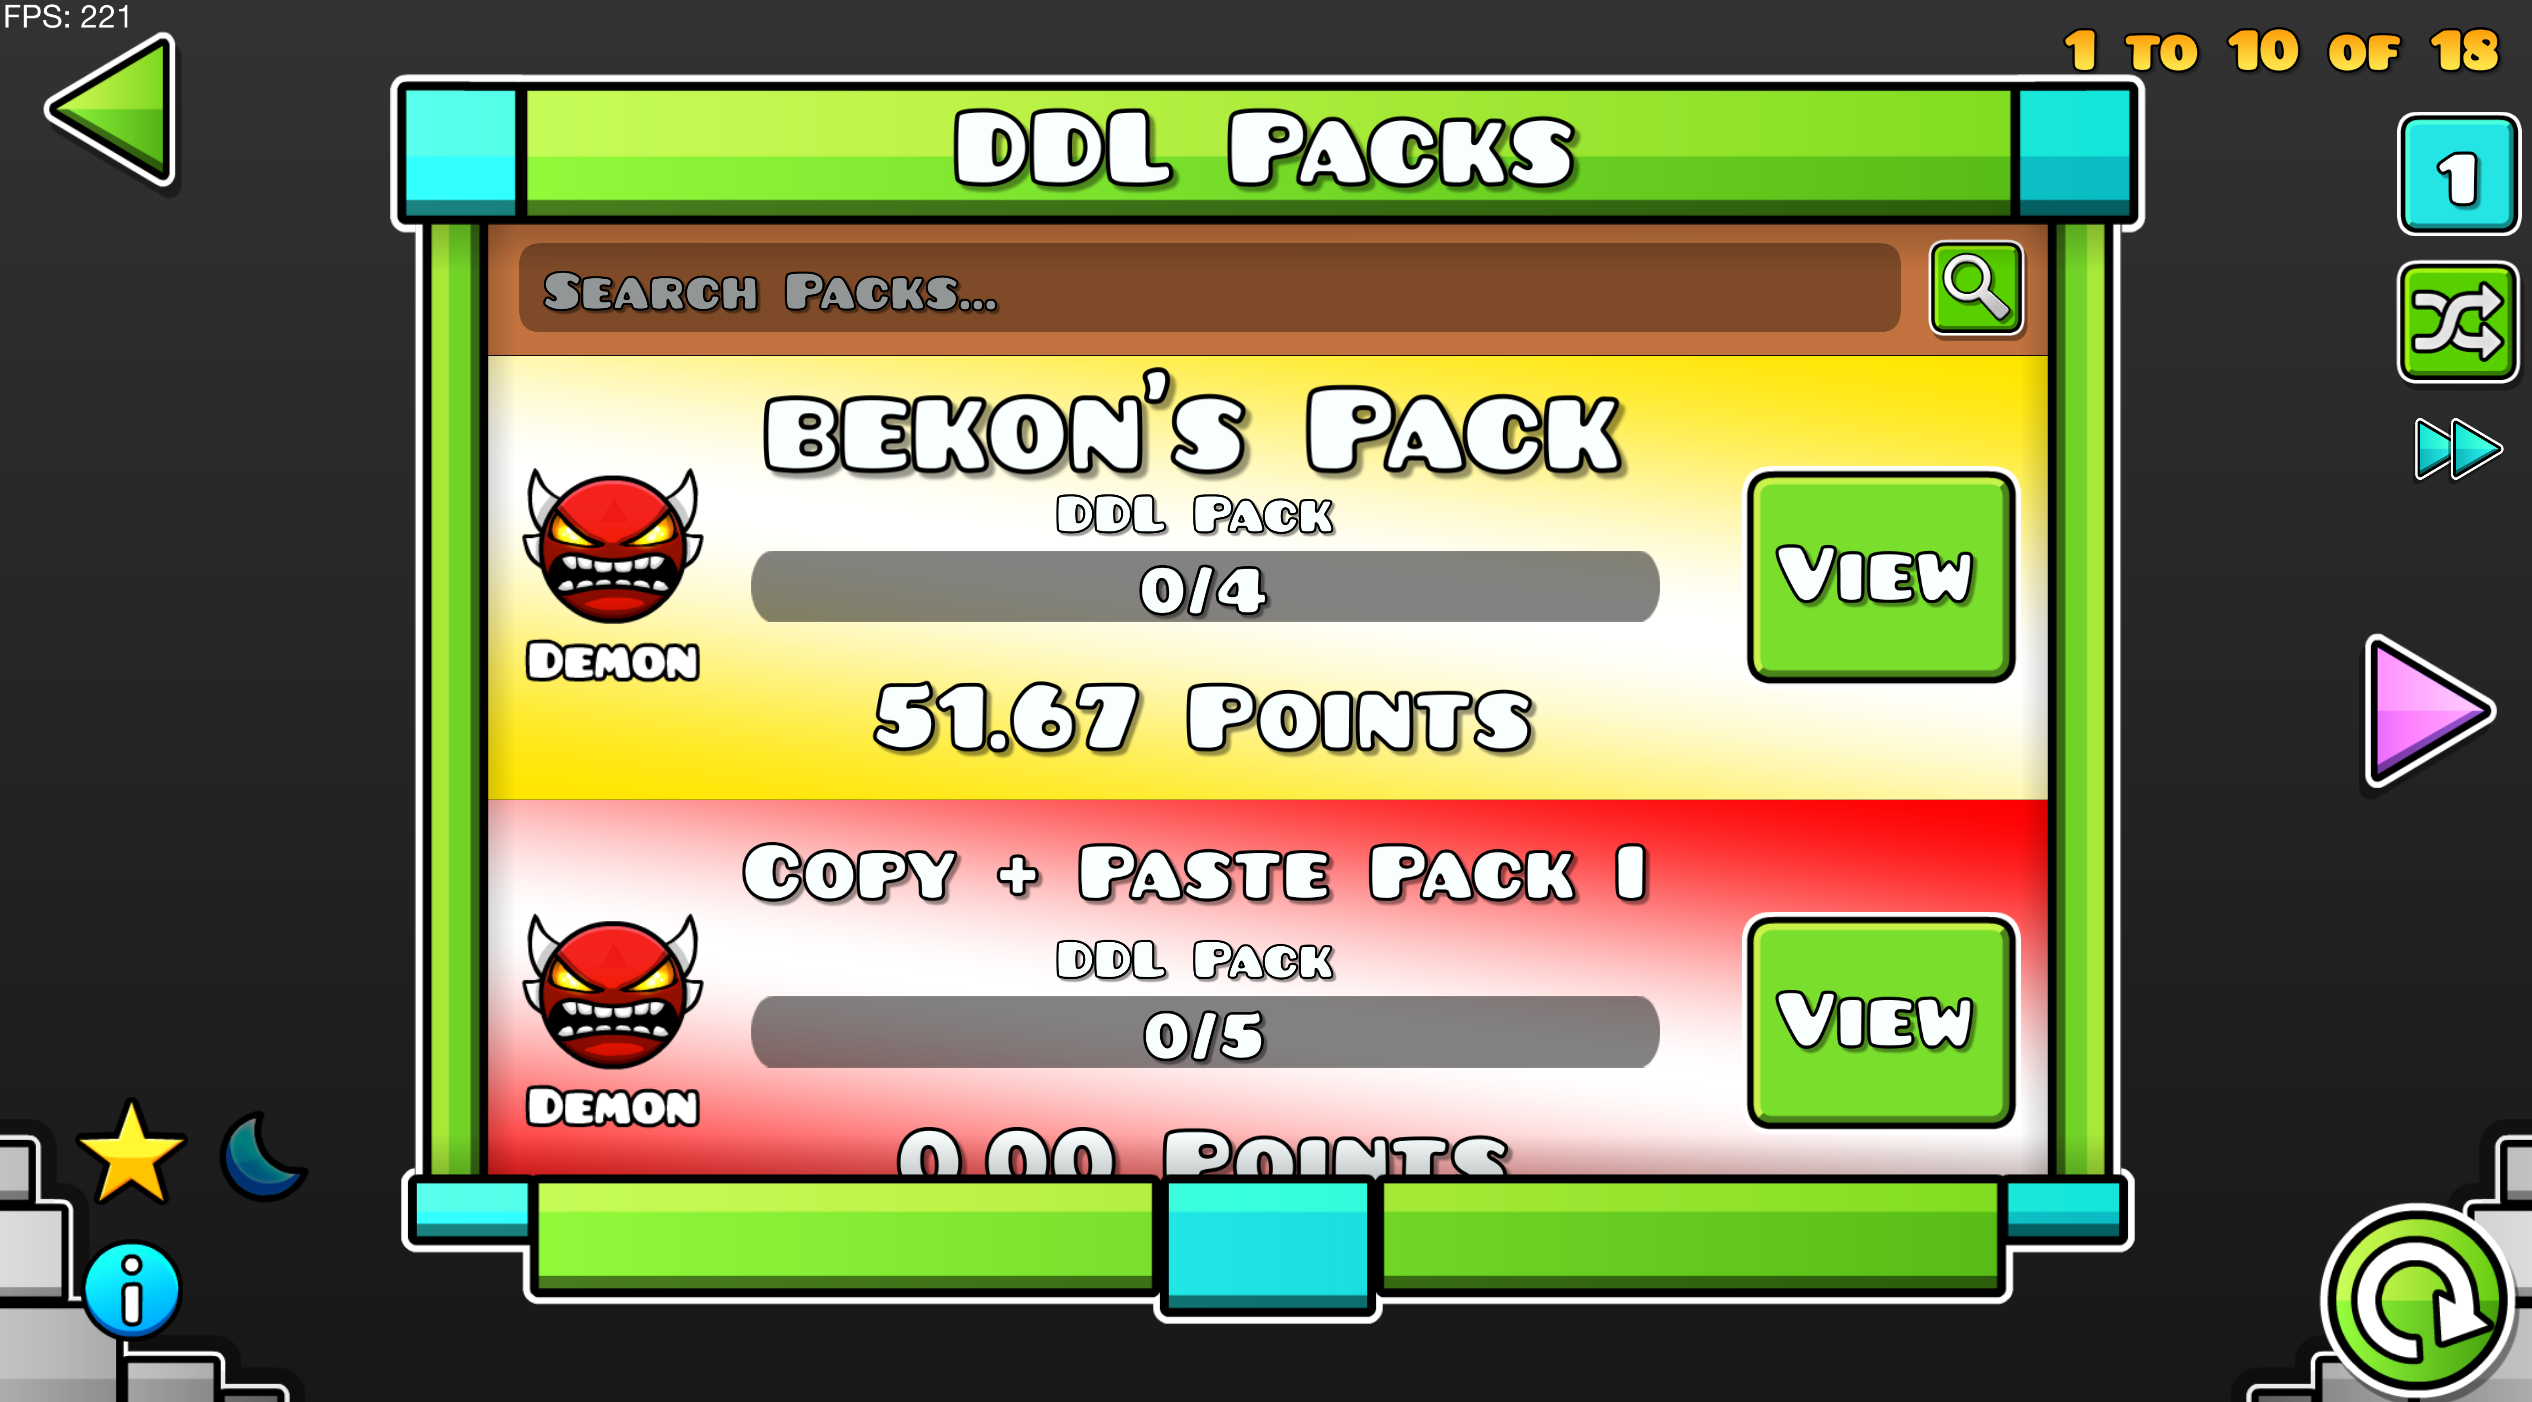
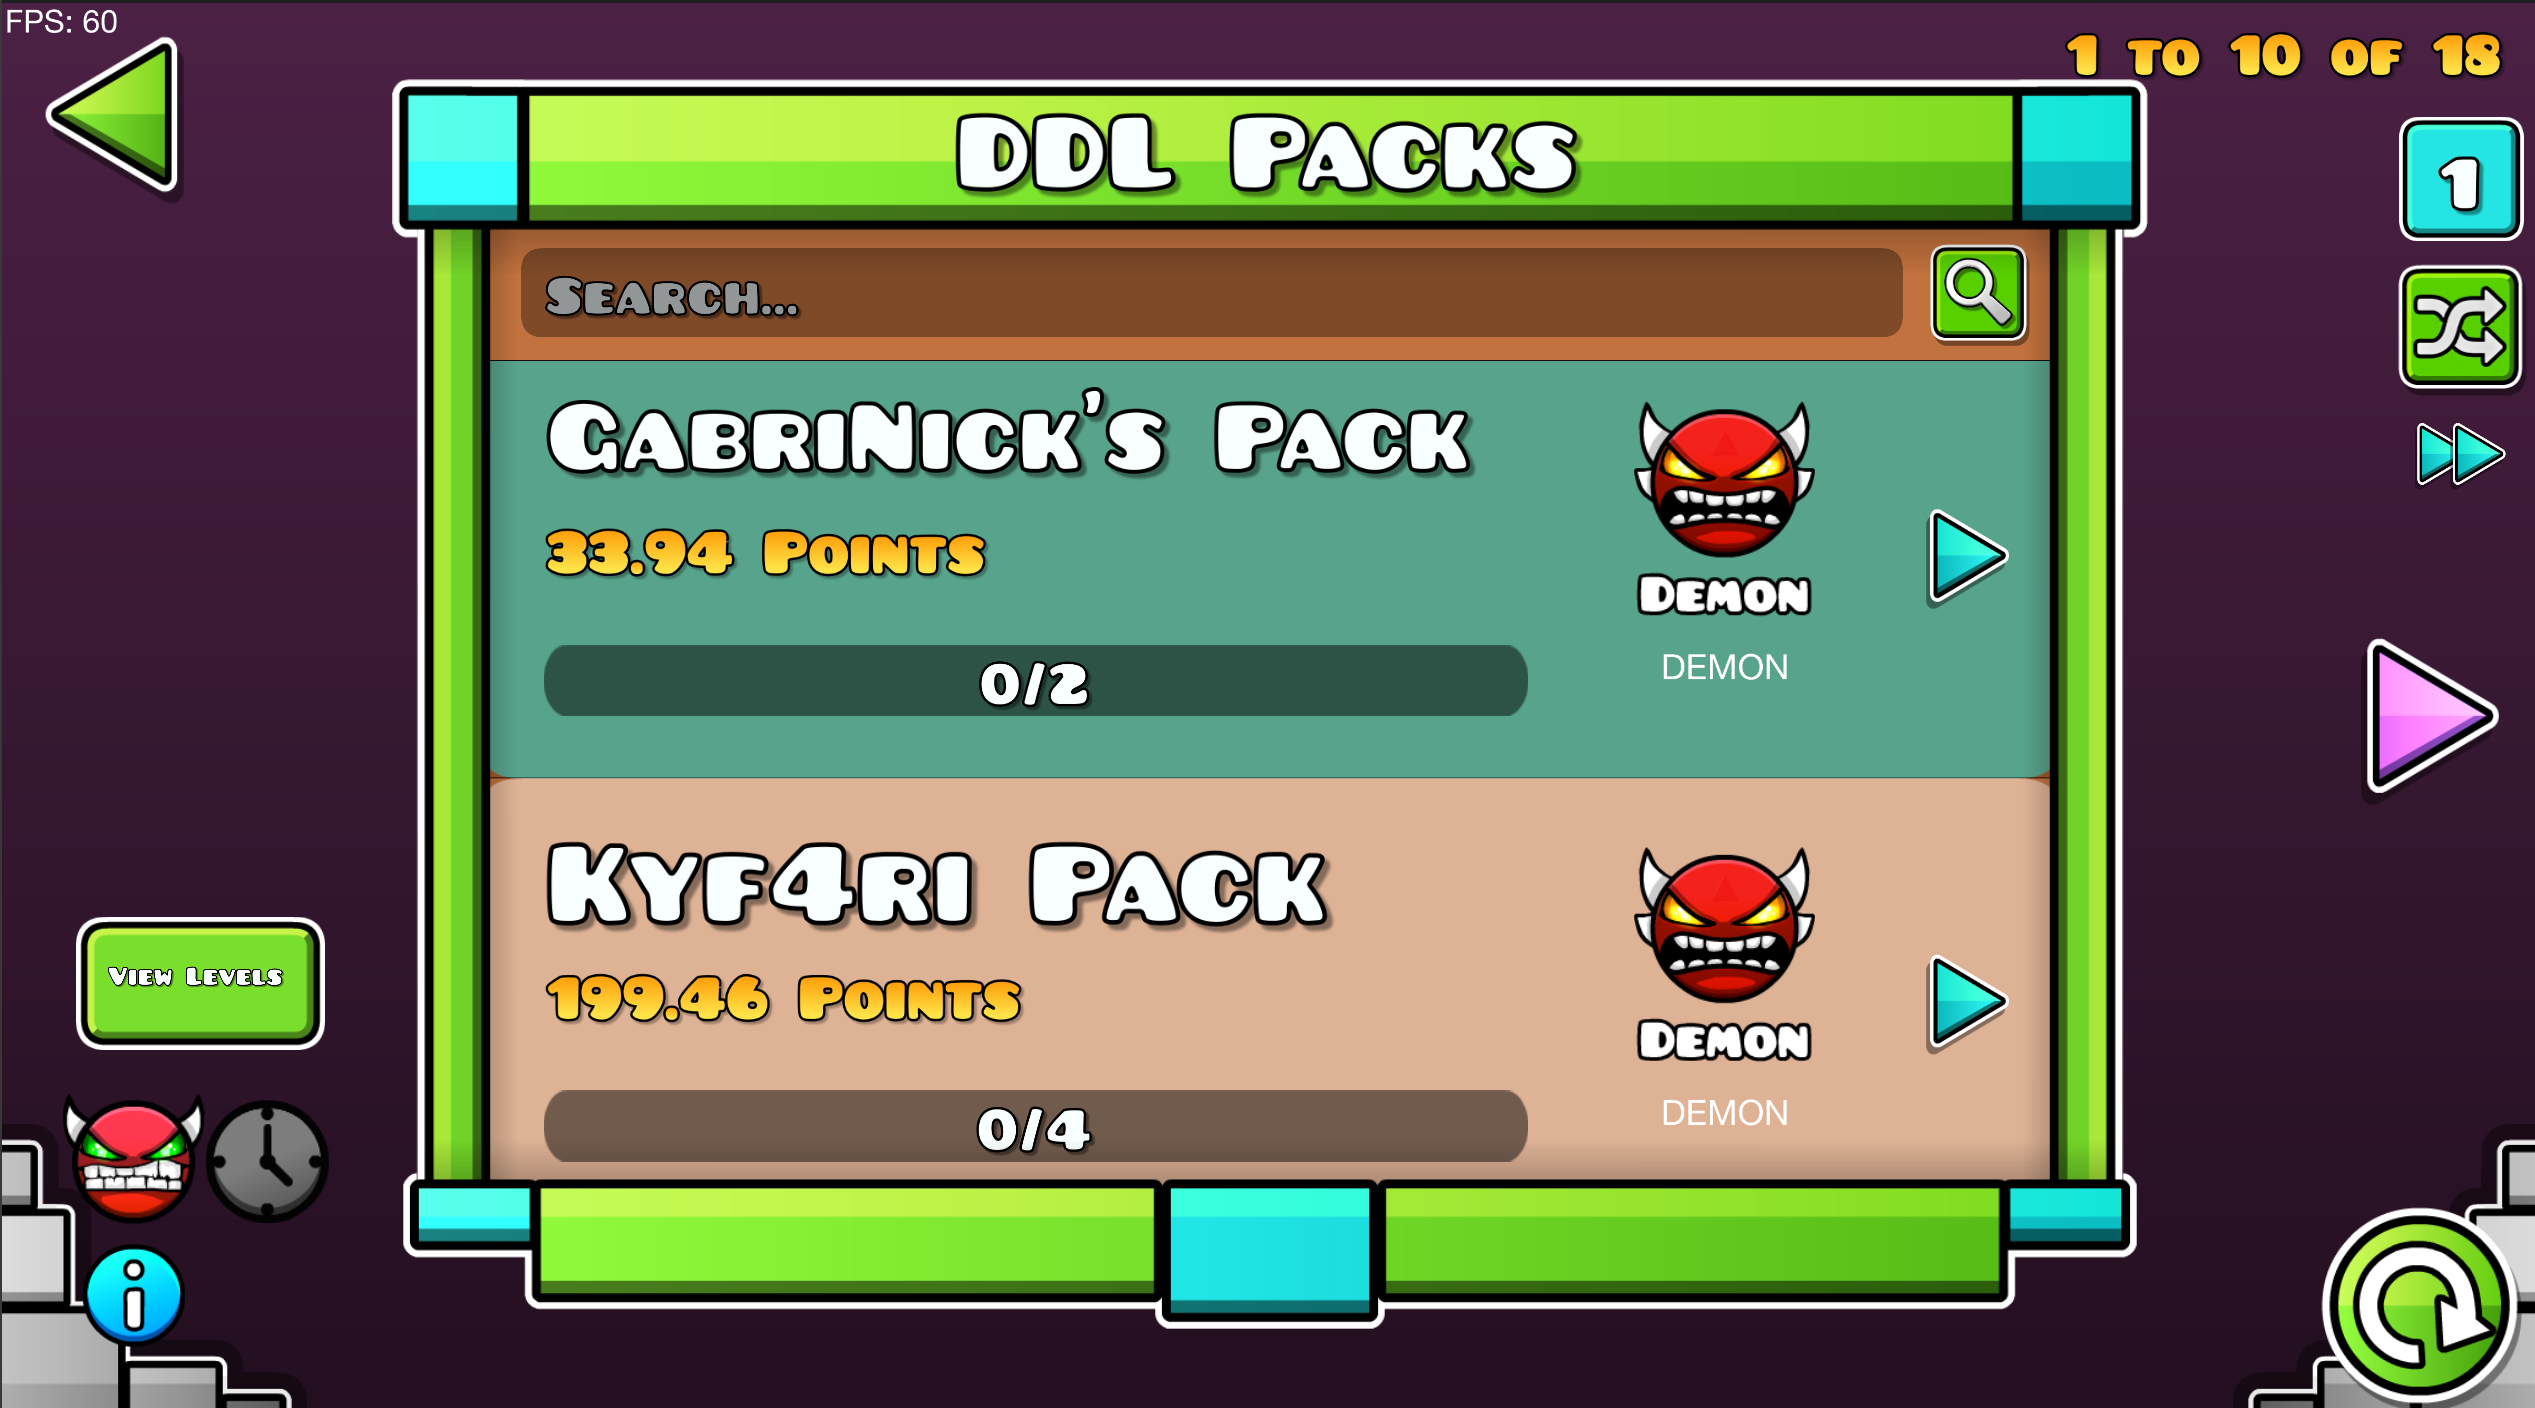
changes before build

diff --git a/changelog.md b/changelog.md
@@ -1,5 +1,9 @@
 # Integrated DDL
 ## v1.0.0
-First release with all core features working
+First release with all core features 
+
 ## v1.0.1
 Made some things more distant from the original theming and color scheme that was in the original demon list integration mod.
+
+## v1.1.0
+Moved around everything and remade the visual elements in the packs to hopefully get indexed soon enough.

diff --git a/about.md b/about.md
@@ -24,5 +24,7 @@ Simple [Denouement Demon List](https://denouementdl.vercel.app/#/DDL) and [Denou
 
 ![DDL Packs](anticroom.ddl-integration/DDL-packs.png?width=300)
 
+![DCL Packs](anticroom.ddl-integration/DCL-packs.png?width=300)
+
 ## License
 This mod is licensed under the [MIT License](https://github.com/hiimjasmine00/IntegratedDemonlist/blob/master/LICENSE).

diff --git a/README.md b/README.md
@@ -24,5 +24,7 @@ Simple [Denouement Demon List](https://denouementdl.vercel.app/#/DDL) and [Denou
 
 ![DDL Packs](resources/DDL-packs.png)
 
+![DCL Packs](resources/DCL-packs.png)
+
 ## License
 This mod is licensed under the [MIT License](https://github.com/hiimjasmine00/IntegratedDemonlist/blob/master/LICENSE).
